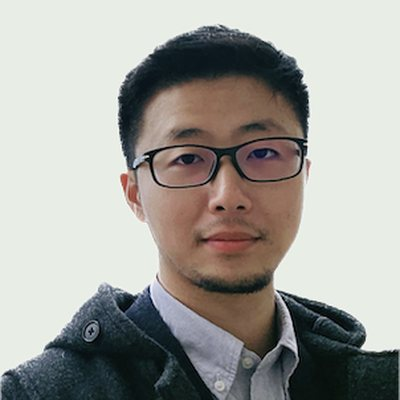
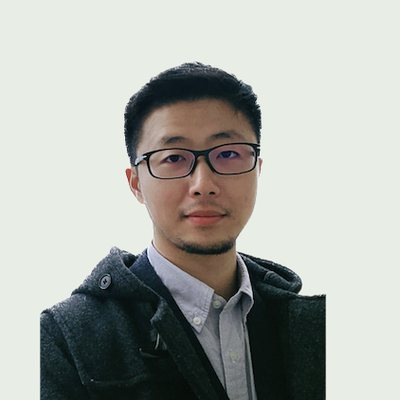
Consistent university name, style pass, and identically framed portraits
- Friedrich Schiller University Jena used everywhere
- Moving to Jena headings and link labels made consistent; bold labels unified
- All portraits re-framed: same face size, centred, same eye height
- Marc and Gokul: MSc Student & HiWi; privacy contact line removed

diff --git a/index.html b/index.html
@@ -26,6 +26,6 @@ We use large, diverse datasets and machine learning to understand how biological
 </div>
 
 <p class="note">
-Led by <a href="https://thomaswolfers.github.io">Thomas Wolfers</a> at the <a href="https://www.uni-jena.de/en/">University of Jena</a>.
+Led by <a href="https://thomaswolfers.github.io">Thomas Wolfers</a> at <a href="https://www.uni-jena.de/en/">Friedrich Schiller University Jena</a>.
 Follow us on <a href="https://www.linkedin.com/in/thomas-wolfers-5b96694b/">LinkedIn</a> and <a href="https://bsky.app/profile/thomaswolfers.bsky.social">Bluesky</a>.
 </p>

diff --git a/moving_to_jena.md b/moving_to_jena.md
@@ -7,29 +7,29 @@ title: "Moving to Jena"
 
 **Jena in Germany** is a city of about 110,000 people, located close to Leipzig (about 1–1.5 h by train) and Berlin (about 2.5–3 h by train). This allows you to enjoy the cultural and social opportunities of larger cities while living in a quieter environment with fewer daily distractions.
 
-Jena has a rich scientific and cultural heritage. It is the birthplace of **the planetarium** and of **modern optics** through Ernst Abbe, Carl Zeiss, and others. Less well known is that the **electroencephalogram (EEG)** was invented here by Hans Berger, whose conduct during the Nazi era is a reminder that scientific achievement does not guarantee moral integrity. His pioneering recordings nonetheless made Jena a birthplace of **human brain mapping** and the scientific study of the human mind. Generally, the University of Jena has been home to many [historical figures](https://www.uni-jena.de/en/109868/famous-university-teachers-and-students-from-the-history-of-the-university-of-jena-selection), including the first [female professor at a German university](https://www.uni-jena.de/en/213543/the-first-female-professor-at-a-german-university). The city has ties to [Humboldt, Schiller, and Goethe](https://communities.springernature.com/posts/humboldt-s-living-legacy-in-jena-germany), and their intellectual and cultural spirit is still felt today. Nearby Weimar, the birthplace of Germany's first democracy, and [Buchenwald](https://www.buchenwald.de/en/geschichte/chronologie/konzentrationslager), a stark reminder of its collapse and what followed, provide important historical lessons that remain relevant.
+Jena has a rich scientific and cultural heritage. It is the birthplace of **the planetarium** and of **modern optics** through Ernst Abbe, Carl Zeiss, and others. Less well known is that the **electroencephalogram (EEG)** was invented here by Hans Berger, whose conduct during the Nazi era is a reminder that scientific achievement does not guarantee moral integrity. His pioneering recordings nonetheless made Jena a birthplace of **human brain mapping** and the scientific study of the human mind. Friedrich Schiller University Jena has been home to many [historical figures](https://www.uni-jena.de/en/109868/famous-university-teachers-and-students-from-the-history-of-the-university-of-jena-selection), including the first [female professor at a German university](https://www.uni-jena.de/en/213543/the-first-female-professor-at-a-german-university). The city has ties to [Humboldt, Schiller, and Goethe](https://communities.springernature.com/posts/humboldt-s-living-legacy-in-jena-germany), and their intellectual and cultural spirit is still felt today. Nearby Weimar, the birthplace of Germany's first democracy, and [Buchenwald](https://www.buchenwald.de/en/geschichte/chronologie/konzentrationslager), a stark reminder of its collapse and what followed, provide important historical lessons that remain relevant.
 
 Jena is where the study of the stars, through optics, and the study of the brain, through EEG, first met, a connection I still find remarkable.
 
 Below you will find practical information about moving to **Jena** and Germany.
 If you would like to suggest additional information, please [get in touch](mailto:dr.thomas.wolfers@gmail.com).
 
-## How is the research environment in Jena?
+## Research environment
 
 **Useful links**
 
-- [University of Jena: Research Environment](https://www.jenaversum.de/jenaversum/research/?lang=en)
+- [Friedrich Schiller University Jena: Research environment](https://www.jenaversum.de/jenaversum/research/?lang=en)
 - [JenaWirtschaft: Research strengths](https://www.jenawirtschaft.de/en/location/research/)
 
 **Overview**
 
-Jena offers an internationally recognized research environment with many strengths. The University is a site of the **German Center for Mental Health**, where I am a PI. My professorship bridges the University and University Hospital. Two Clusters of Excellence further strengthen the research landscape.
+Jena offers an internationally recognized research environment with many strengths. Friedrich Schiller University Jena is a site of the **German Center for Mental Health**, where I am a PI. My professorship bridges the university and University Hospital Jena. Two Clusters of Excellence further strengthen the research landscape.
 
 Several **Max Planck Institutes**, **Leibniz institutes**, and **Fraunhofer institutes** contribute to an interdisciplinary ecosystem.
 
-Carl Zeiss remains omnipresent. The largest [Carl Zeiss research campus worldwide](https://www.zeiss.de/corporate/ueber-zeiss/gegenwart/daten-fakten/zeiss-standorte/jena.html) is currently being built. As Carl Zeiss Professor, I aim to foster strong collaborations with the Carl Zeiss Foundation & Company, especially on relevant topics in machine learning.
+Carl Zeiss remains omnipresent. The largest [Carl Zeiss research campus worldwide](https://www.zeiss.de/corporate/ueber-zeiss/gegenwart/daten-fakten/zeiss-standorte/jena.html) is currently being built. As Carl Zeiss Professor, I aim to foster strong collaborations with the Carl Zeiss Foundation and the ZEISS Group, especially on relevant topics in machine learning.
 
-## Getting started in Jena
+## Getting started
 
 Housing can be competitive but manageable, and the daycare infrastructure is excellent. Our children enjoy attending *Kita* until late afternoon, which makes balancing work and family life much easier.
 
@@ -37,8 +37,8 @@ Jena is a lively city that supports its residents. We managed all city-related p
 
 **Useful links**
 
-- [University of Jena: Living in Jena](https://www.uni-jena.de/en/1965/living-in-jena)
-- [Work-in-Jena Guide](https://www.work-in-jena.de/en/living-in-jena/)
+- [Friedrich Schiller University Jena: Living in Jena](https://www.uni-jena.de/en/1965/living-in-jena)
+- [Work in Jena: Guide](https://www.work-in-jena.de/en/living-in-jena/)
 - [City of Jena: Welcome Center](https://neu.jena.de/en/node/51)
 
 **First steps before and after arrival**
@@ -48,15 +48,15 @@ Jena is a lively city that supports its residents. We managed all city-related p
 - Obtain health insurance (mandatory in Germany).
 - Open a German bank account.
 
-## What can you do in and around Jena?
+## Things to do in and around Jena
 
 **Useful links**
 
-- [Kulturarena Festival](https://de.wikipedia.org/wiki/Kulturarena)
+- [Kulturarena festival](https://de.wikipedia.org/wiki/Kulturarena)
 - [Zeiss Planetarium Jena](https://planetarium-jena.de/)
-- If you enjoy **mountainbiking or hiking**, the [Saale Horizontale](https://www.saalehorizontalehike.de) is a fantastic trail right on Jena's doorstep.
-- When there's snow, a [cross-country ski area in the Thuringian Forest](https://www.tourenportal-thueringer-wald.de/en/cross-country-ski-trails/thuringian-forest/cross-country-ski-trails-in-the-thuringian-forest/1445333/) is just a short drive away.
-- The **Czech Republic** is closer than you might think, the [West Bohemian Spa Triangle](https://www.visitczechia.com/en-us/things-to-do/places/landmarks/unesco/a-west-bohemian-spa-triangle) (Karlovy Vary, Mariánské Lázně, Františkovy Lázně) makes for a perfect extended weekend.
+- If you enjoy **mountain biking or hiking**, the [Saale Horizontale](https://www.saalehorizontalehike.de) is a fantastic trail right on Jena's doorstep.
+- When there is snow, a [cross-country ski area in the Thuringian Forest](https://www.tourenportal-thueringer-wald.de/en/cross-country-ski-trails/thuringian-forest/cross-country-ski-trails-in-the-thuringian-forest/1445333/) is just a short drive away.
+- The **Czech Republic** is closer than you might think: the [West Bohemian Spa Triangle](https://www.visitczechia.com/en-us/things-to-do/places/landmarks/unesco/a-west-bohemian-spa-triangle) (Karlovy Vary, Mariánské Lázně, Františkovy Lázně) makes for a perfect extended weekend.
 
 **Highlights**
 
@@ -65,48 +65,48 @@ Jena is a lively city that supports its residents. We managed all city-related p
 - Saale valley and Thuringian Forest for hiking, cycling, and outdoor activities.
 - A lively student scene with cafés, clubs, and cultural venues.
 
-## How to find an apartment in Jena?
+## Finding an apartment
 
 **Useful links**
 
-- [University: Housing information](https://www.uni-jena.de/en/59378/finding-an-accomodation-in-jena)
-- [WG-Gesucht (Shared flats)](https://www.wg-gesucht.de/en/)
-- [Studierendenwerk Thüringen: Student Housing](https://www.stw-thueringen.de/en/housing/)
+- [Friedrich Schiller University Jena: Housing information](https://www.uni-jena.de/en/59378/finding-an-accomodation-in-jena)
+- [WG-Gesucht (shared flats)](https://www.wg-gesucht.de/en/)
+- [Studierendenwerk Thüringen: Student housing](https://www.stw-thueringen.de/en/housing/)
 
-**Note**: Many private flats are rented **unfurnished**, sometimes without kitchens. Apply early and use university networks.
+**Note:** Many private flats are rented **unfurnished**, sometimes without kitchens. Apply early and use university networks.
 
-## How German is it, and how much German do you need?
+## Language
 
-Academic life is highly international, and English is widely spoken in research. German is not required for work in our team. However, daily life and bureaucracy are primarily in German. Learning German helps with integration and social life. The University Language Centre offers free or affordable courses for researchers and students.
+Academic life is highly international, and English is widely spoken in research. German is not required for work in our team. However, daily life and bureaucracy are primarily in German. Learning German helps with integration and social life. The university's Language Center offers free or affordable courses for researchers and students.
 
-## How to calculate your income and what are the living costs?
+## Income and living costs
 
 **Useful links**
 
 - [Living costs in Jena](https://livingcost.org/cost)
-- [TV-L Salary Calculator](https://oeffentlicher-dienst.info/c/t/rechner/tv-l/west?id=tv-l-2025)
-- [Numbeo: Cost of Living](https://www.numbeo.com/cost-of-living)
+- [TV-L salary calculator](https://oeffentlicher-dienst.info/c/t/rechner/tv-l/west?id=tv-l-2025)
+- [Numbeo: Cost of living](https://www.numbeo.com/cost-of-living)
 
 **You can check living costs in Jena for a data-driven overview**. What matters are living costs, median salaries, and returns on capital: figures that reflect conditions for most people, not just top earners. By this measure, Jena stands out: costs are about half of other cities in Germany ([compare yourself](https://livingcost.org/cost)) while average salaries are comparable or higher. Add reliable daycare, strong social services, healthcare, efficient local government, and affordable public spaces, and you get a city that thrives on balance, especially attractive for young professionals and families. Disclaimer: the tool reports average salaries, which are only rough estimates and likely based on skewed data.
 
-## Social support systems
+## Social support
 
-Germany provides comprehensive social protection: health insurance, unemployment insurance, pensions, and public healthcare, automatically covered through employment. The University also offers counseling, mentoring, and integration services for international staff and students.
+Germany provides comprehensive social protection: health insurance, unemployment insurance, pensions, and public healthcare, automatically covered through employment. The university also offers counseling, mentoring, and integration services for international staff and students.
 
-## Family and child support
+## Family and childcare
 
 **Useful links**
 
-- [Work-in-Jena: Family Support](https://www.work-in-jena.de/en/living-in-jena/family/)
-- [City of Jena: Day-care & parental fees](https://service.jena.de/en/day-care-fees-and-parental-fee-calculation)
+- [Work in Jena: Family support](https://www.work-in-jena.de/en/living-in-jena/family/)
+- [City of Jena: Daycare and parental fees](https://service.jena.de/en/day-care-fees-and-parental-fee-calculation)
 - [Kindergeld (Federal Family Benefits Office)](https://www.arbeitsagentur.de/familie-und-kinder/kindergeld)
 
 **Overview**
 
-- Parental leave: up to 14 months at ~60% of last income.
+- Parental leave: up to 14 months at about 60% of the last income.
 - Kindergarten and childcare: affordable, high quality (most with gardens and well-trained staff).
 - Public schools: free and good. International schools exist in nearby cities but are usually unnecessary.
 
-## Vacation days
+## Vacation
 
 Employees in Germany typically receive **25–30 paid vacation days per year**, plus public holidays, leaving ample time for travel, leisure, and family.

diff --git a/use_LLMs.md b/use_LLMs.md
@@ -9,19 +9,19 @@ We take a balanced view. LLMs help with editing, sketching ideas, coding, and mo
 
 ## Students and PhD candidates
 
-- **Permitted**: Brainstorming, outlining, and language polishing.
-- **Compliance**: Students and PhD candidates must follow the regulations of their program or graduate school, share these with the PI/supervisor, and ensure they are respected.
+- **Permitted:** Brainstorming, outlining, and language polishing.
+- **Compliance:** Students and PhD candidates must follow the regulations of their program or graduate school, share these with the PI/supervisor, and ensure they are respected.
 
 ## Publications
 
-- **Permitted**: Language refinement (grammar, style, conciseness).
-- **Accountability**: Authors remain fully responsible for accuracy, originality, and ethical standards. Only verified content may be published.
-- **Compliance**: LLM use must follow (a) the policies of the journal or conference and (b) graduate school rules, if the work is part of a thesis. Where required, the use of LLMs should be declared.
+- **Permitted:** Language refinement (grammar, style, conciseness).
+- **Accountability:** Authors remain fully responsible for accuracy, originality, and ethical standards. Only verified content may be published.
+- **Compliance:** LLM use must follow (a) the policies of the journal or conference and (b) graduate school rules, if the work is part of a thesis. Where required, the use of LLMs should be declared.
 
 ## Peer review
 
-- **Permitted**: Language editing of reviews.
-- **Not permitted**: Sharing unpublished manuscripts with external tools or using AI to generate judgments.
-- **Compliance**: Review practices must follow the rules of the respective journal or conference, as (hopefully) provided with the review invitation.
+- **Permitted:** Language editing of reviews.
+- **Not permitted:** Sharing unpublished manuscripts with external tools or using AI to generate judgments.
+- **Compliance:** Review practices must follow the rules of the respective journal or conference, as (hopefully) provided with the review invitation.
 
 *This policy may change as the field and its regulations evolve.*

diff --git a/values.md b/values.md
@@ -26,6 +26,6 @@ We focus on developing systems that help humans.
 
 We see large language models as useful tools with clear limits. Our [lab's policy on the use of LLMs](/use_LLMs/) sets out how we use them.
 
-## Where do we publish and why?
+## Where we publish and why
 
 We publish across leading venues in machine learning, psychiatry, psychology, and neuroscience because mental health mapping is inherently interdisciplinary and benefits from visibility in all of these communities. High-impact machine learning conferences and medical or neuroscience journals ensure our work reaches both methodological innovators and clinical scientists. At the same time, we aim to balance impact and accessibility. While we support open science and believe publication fees should reflect real value, we also recognize that journal and conference prestige remains important, especially for early-career researchers. Our publication strategy therefore prioritizes scientific reach and career support, while encouraging a culture that decouples this from high fees or in-group favoritism.

diff --git a/privacy_policy.md b/privacy_policy.md
@@ -5,7 +5,7 @@ title: "Privacy Policy"
 
 This page explains what happens to your data when you visit this website.
 
-## What data do we collect?
+## Data we collect
 We do not collect, store, or process any personal data. The website has no contact forms, user accounts, or comment functions.
 
 ## Cookies, analytics, and tracking
@@ -18,4 +18,4 @@ The website is hosted on GitHub Pages, a service of GitHub, Inc. When you visit 
 Pages on this website link to other websites (e.g., journals, universities, social media). Their own privacy policies apply once you follow such a link.
 
 ## Your rights
-Under the GDPR, you have the right to request information about, correction of, and deletion of your personal data. For any questions, please contact [Thomas Wolfers](mailto:dr.thomas.wolfers@gmail.com).
+Under the GDPR, you have the right to request information about, correction of, and deletion of your personal data.

diff --git a/community.md b/community.md
@@ -11,7 +11,7 @@ Talks, courses, workshops, and conferences are central to a thriving scientific 
 - **Workshop on Machine Learning in Clinical Neuroimaging** ([MLCN](https://mlcnworkshop.github.io)) at MICCAI: co-organizer.
 - **[ECNP](https://www.ecnp.eu), 2026–2029 and beyond:** Scientific Program Committee, abstract committee, and research network on machine learning for mental health.
 - **[ELLIS Unit Jena](https://www.ellis-jena.ai/thomas-wolfers/):** member of the European Laboratory for Learning and Intelligent Systems network.
-- **[Digital Academy](https://www.uni-jena.de/388487/digital-academy)** at the University of Jena.
+- **[Digital Academy](https://www.uni-jena.de/388487/digital-academy)** at Friedrich Schiller University Jena.
 - **[German Center for Mental Health (DZPG)](https://www.dzpg.org), Jena site:** contributing to its development.
 
 ## In Jena, Germany

diff --git a/teaching.md b/teaching.md
@@ -3,7 +3,7 @@ permalink: /teaching/
 title: "Teaching and Seminars"
 ---
 
-We contribute to the teaching portfolio at Friedrich Schiller University (FSU) by developing an integrated, interdisciplinary teaching program spanning cognitive neuroscience, brain imaging, and machine learning, aimed at FSU students as well as national and international participants.
+We contribute to the teaching portfolio at Friedrich Schiller University Jena by developing an integrated, interdisciplinary teaching program spanning cognitive neuroscience, brain imaging, and machine learning, aimed at its students as well as national and international participants.
 
 ## Parsing Individual Differences in Brain Disorders
 <p class="meta">Winter term · three weekends in November</p>

diff --git a/README.md b/README.md
@@ -72,7 +72,7 @@ Text in markdown…
 - Section headings in sentence case (*Open positions*); names of courses, papers and themes keep their capitals.
 - Bios in the first person (*I am…*, *My research…*), no contractions, refer to the lab as *the MHM Lab*.
 - Use *and* rather than *&* in running text; en dash for ranges (*2024–2026*, *12:15–13:45*).
-- Role labels: PI, PostDoc, PhD Candidate, MSc Student, BSc Student, HiWi (combine with *&*, e.g. *MSc & HiWi*).
+- Role labels: PI, PostDoc, PhD Candidate, MSc Student, BSc Student, HiWi (combine with *&*, e.g. *MSc Student & HiWi*).
 
 ## Tips
 - YAML is picky about indentation: use spaces (not tabs) and keep the same indentation as the block you copied.

diff --git a/join_us.md b/join_us.md
@@ -5,7 +5,7 @@ title: "Join Us"
 
 <p class="highlight">Curious, driven, kind, and ready to put in the work? We would love to hear from you.</p>
 
-We are based at the University of Jena. If you would like to apply for individual funding with us (e.g., a Marie Curie fellowship) or have any other questions, email [Thomas Wolfers](mailto:dr.thomas.wolfers@gmail.com).
+We are based at Friedrich Schiller University Jena. If you would like to apply for individual funding with us (e.g., a Marie Curie fellowship) or have any other questions, email [Thomas Wolfers](mailto:dr.thomas.wolfers@gmail.com).
 
 ## Open positions
 
